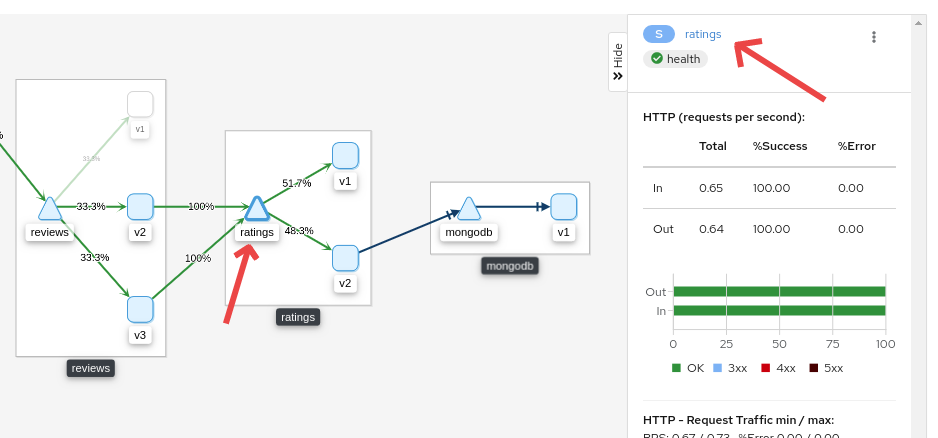
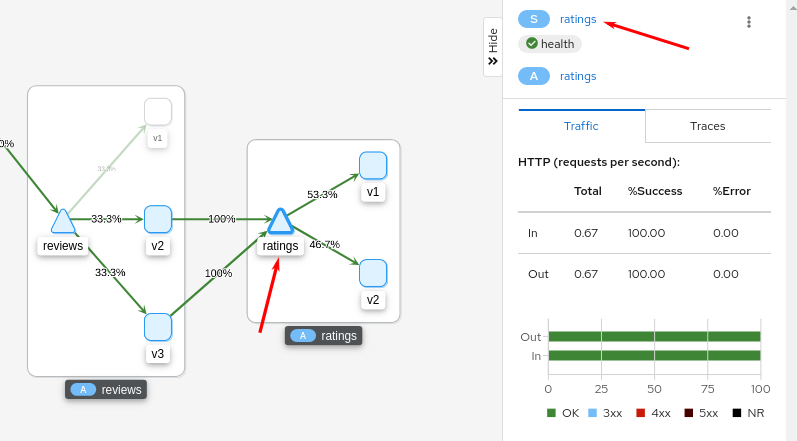
Update "Visualizing Your Mesh" istio.io page with Kiali v1.34 (#9662)
https://github.com/kiali/kiali/issues/3888

diff --git a/content/en/docs/tasks/observability/kiali/index.md b/content/en/docs/tasks/observability/kiali/index.md
@@ -13,8 +13,7 @@ This task shows you how to visualize different aspects of your Istio mesh.
 
 As part of this task, you install the [Kiali](https://www.kiali.io) addon
 and use the web-based graphical user interface to view service graphs of
-the mesh and your Istio configuration objects. Lastly, you use the Kiali
-Developer API to generate graph data in the form of consumable JSON.
+the mesh and your Istio configuration objects.
 
 {{< idea >}}
 This task does not cover all of the features provided by Kiali.
@@ -29,7 +28,7 @@ assumes the Bookinfo application is installed in the `bookinfo` namespace.
 
 Follow the [Kiali installation](/docs/ops/integrations/kiali/#installation) documentation to deploy Kiali into your cluster.
 
-## Generating a service graph
+## Generating a graph
 
 1.  To verify the service is running in your cluster, run the following command:
 
@@ -67,11 +66,14 @@ Follow the [Kiali installation](/docs/ops/integrations/kiali/#installation) docu
 
     {{< image width="75%" link="./kiali-overview.png" caption="Example Overview" >}}
 
-1.  To view a namespace graph, click on the `bookinfo` graph icon in the Bookinfo namespace card. The graph icon is in the lower left of
-    the namespace card and looks like a connected group of circles.
+1.  To view a namespace graph, Select the `Graph` option in the kebab menu of the Bookinfo overview card. The kebab menu
+    is at the top right of card and looks like 3 vertical dots. Click it to see the available options.
     The page looks similar to:
 
     {{< image width="75%" link="./kiali-graph.png" caption="Example Graph" >}}
+
+1.  The graph represents traffic flowing through the service mesh for a period of time. It is generated using
+    Istio telemetry.
 
 1.  To view a summary of metrics, select any node or edge in the graph to display
     its metric details in the summary details panel on the right.
@@ -82,7 +84,7 @@ Follow the [Kiali installation](/docs/ops/integrations/kiali/#installation) docu
 
     *   The **App** graph type aggregates all versions of an app into a single graph node.
         The following example shows a single **reviews** node representing the three versions
-        of the reviews app.
+        of the reviews app. Note that the `Show Service Nodes` Display option has been disabled.
 
         {{< image width="75%" link="./kiali-app.png" caption="Example App Graph" >}}
 
@@ -95,34 +97,33 @@ Follow the [Kiali installation](/docs/ops/integrations/kiali/#installation) docu
 
     *   The **Workload** graph type shows a node for each workload in your service mesh.
         This graph type does not require you to use the `app` and `version` labels so if you
-        opt to not use those labels on your components, this is the graph type you will use.
+        opt to not use those labels on your components, this may be your graph type of choice.
 
         {{< image width="70%" link="./kiali-workload.png" caption="Example Workload Graph" >}}
 
-    *   The **Service** graph type shows a node for each service in your mesh but excludes
-        all apps and workloads from the graph.
+    *   The **Service** graph type shows a high-level aggregation of service traffic in your mesh.
 
         {{< image width="70%" link="./kiali-service-graph.png" caption="Example Service Graph" >}}
 
 ## Examining Istio configuration
 
-1.  To view detailed information about Istio configuration, click on the
-    **Applications**, **Workloads**, and **Services** menu icons on the left menu
-    bar. The following screenshot shows information for the Bookinfo application:
+1.  The left menu options lead to list views for **Applications**, **Workloads**, **Services** and
+    **Istio Config**.
+    The following screenshot shows **Services** information for the Bookinfo namespace:
 
     {{< image width="80%" link="./kiali-services.png" caption="Example Details" >}}
 
-## Creating weighted routes
+## Traffic Shifting
 
-You can use the Kiali weighted routing wizard to define the specific percentage of
+You can use the Kiali traffic shifting wizard to define the specific percentage of
 request traffic to route to two or more workloads.
 
 1.  View the **Versioned app graph** of the `bookinfo` graph.
 
-    *   Make sure you have selected **Requests percentage** in the **Display** drop down menu
-        to see the percentage of traffic routed to each workload.
+    *   Make sure you have enabled the **Request Distribution** Edge Label **Display** option to see
+        the percentage of traffic routed to each workload.
 
-    *   Make sure you have selected the **Service Nodes** check box in the **Display** drop down menu
+    *   Make sure you have enabled the Show **Service Nodes** **Display** option
         to view the service nodes in the graph.
 
     {{< image width="80%" link="./kiali-wiz0-graph-options.png" caption="Bookinfo Graph Options" >}}
@@ -133,20 +134,22 @@ request traffic to route to two or more workloads.
 
     {{< image width="80%" link="./kiali-wiz1-graph-ratings-percent.png" caption="Graph Showing Percentage of Traffic" >}}
 
-1.  Click the **ratings** link found in the side panel to go to the service view for the `ratings` service.
+1.  Click the **ratings** link found in the side panel to go to the detail view for the `ratings` service.  This
+    could also be done by secondary-click on the `ratings` service node, and selecting `Details` from the context menu.
 
-1.  From the **Action** drop down menu, select **Create Weighted Routing** to access the weighted routing wizard.
+1.  From the **Actions** drop down menu, select **Traffic Shifting** to access the traffic shifting wizard.
 
-    {{< image width="80%" link="./kiali-wiz2-ratings-service-action-menu.png" caption="Service Action Menu" >}}
+    {{< image width="80%" link="./kiali-wiz2-ratings-service-action-menu.png" caption="Service Actions Menu" >}}
 
 1.  Drag the sliders to specify the percentage of traffic to route to each workload.
     For `ratings-v1`, set it to 10%; for `ratings-v2` set it to 90%.
 
-    {{< image width="80%" link="./kiali-wiz3-weighted-routing-wizard.png" caption="Weighted Routing Wizard" >}}
+    {{< image width="80%" link="./kiali-wiz3-traffic-shifting-wizard.png" caption="Weighted Routing Wizard" >}}
 
-1.  Click the **Create** button to create the new routing.
+1.  Click the **Create** button to apply the new traffic settings.
 
-1.  Click **Graph** in the left hand navigation bar to return to the `bookinfo` graph.
+1.  Click **Graph** in the left hand navigation bar to return to the `bookinfo` graph.  Notice that the
+    `ratings` service node is now badged with the `virtual service` icon.
 
 1.  Send requests to the `bookinfo` application. For example, to send one request per second,
     you can execute this command if you have `watch` installed on your system:
@@ -159,14 +162,14 @@ request traffic to route to two or more workloads.
     thus confirming the fact that your new traffic route is successfully routing 90% of all traffic
     requests to `ratings-v2`.
 
-    {{< image width="80%" link="./kiali-wiz4-ratings-weighted-route-90-10.png" caption="90% Ratings Traffic Routed to ratings-v2" >}}
+    {{< image width="80%" link="./kiali-wiz4-traffic-shifting-90-10.png" caption="90% Ratings Traffic Routed to ratings-v2" >}}
 
 ## Validating Istio configuration
 
 Kiali can validate your Istio resources to ensure they follow proper conventions and semantics. Any problems detected in the configuration of your Istio resources can be flagged as errors or warnings depending on the severity of the incorrect configuration. See the [Kiali validations page](https://kiali.io/documentation/latest/validations/) for the list of all validation checks Kiali performs.
 
 {{< idea >}}
-Istio 1.4 introduces `istioctl analyze` which lets you perform similar analysis in a way that can be used in a CI pipeline.
+Istio provides `istioctl analyze` which provides analysis in a way that can be used in a CI pipeline. The two approaches can be complementary.
 {{< /idea >}}
 
 Force an invalid configuration of a service port name to see how Kiali reports a validation error.
@@ -207,38 +210,22 @@ when it detects incorrect configurations.
 1.  Create Bookinfo destination rules:
 
     {{< text bash >}}
-    $ kubectl apply -f @samples/bookinfo/networking/destination-rule-all.yaml@
+    $ kubectl -n bookinfo apply -f @samples/bookinfo/networking/destination-rule-all.yaml@
     {{< /text >}}
 
 1.  Click `Istio Config` on the left hand navigation bar to navigate to the Istio configuration list.
 
 1.  Select `bookinfo` from the **Namespace** drop down menu if it is not already selected.
 
-1.  Notice the error messages and the error and warning icons that alert you to several configuration problems.
+1.  Notice the error message and the error icons that alert you to several configuration problems.
 
     {{< image width="80%" link="./kiali-istioconfig0-errormsgs.png" caption="Istio Config List Incorrect Configuration Messages" >}}
 
-1.  Hover over the error icon in the **Configuration** column of the `details` row to see additional messages.
+1.  Click the error icon in the **Configuration** column of the `details` row to navigate to the `details` destination rule view.
 
-    {{< image width="80%" link="./kiali-istioconfig1-tooltip.png" caption="Istio Config List Incorrect Configuration Tool Tips" >}}
-
-1.  Click the **details** link in the **Name** column to navigate to the `details` destination rule view.
-
-1.  Notice the messages and icons that alert you to several validation rules that failed.
-
-    {{< image width="80%" link="./kiali-istioconfig2-details-errormsgs.png" caption="Istio Configuration Details View Showing Errors" >}}
-
-1.  Click the **YAML** tab to view the YAML for this Istio destination rule resource.
-
-1.  Notice the color highlights and icons on the rows that have failed validation checks.
+1.  The **YAML** tab is preselected. Notice the color highlights and icons on the rows that have failed validation checks.
 
     {{< image width="80%" link="./kiali-istioconfig3-details-yaml1.png" caption="YAML Editor Showing Validation Errors and Warnings" >}}
-
-1.  Hover over the yellow icon to view the tool tip message that informs you of the validation check that triggered the warning.
-    For more details on the cause of the warning and how to resolve it, look up the validation warning message on the
-    [Kiali Validations page](https://kiali.io/documentation/latest/validations/).
-
-    {{< image width="80%" link="./kiali-istioconfig3-details-yaml2.png" caption="YAML Editor Showing Warning Tool Tip" >}}
 
 1.  Hover over the red icon to view the tool tip message that informs you of the validation check that triggered the error.
     For more details on the cause of the error and how to resolve it, look up the validation error message on the
@@ -249,33 +236,16 @@ when it detects incorrect configurations.
 1.  Delete the destination rules to return `bookinfo` back to its original state.
 
     {{< text bash >}}
-    $ kubectl delete -f samples/bookinfo/networking/destination-rule-all.yaml
+    $ kubectl -n bookinfo delete -f samples/bookinfo/networking/destination-rule-all.yaml
     {{< /text >}}
-
-## About the Kiali Developer API
-
-{{< warning >}}
-The Kiali Developer API is not designed or documented for public consumption, but it may be useful to some users.
-Please note the Kiali Developer API can change from version to version - there is no guarantee of backward compatibility.
-{{< /warning >}}
-
-To generate JSON files representing the graphs and other metrics, health, and
-configuration information, you can access the Kiali Developer API.
-For example, point your browser to `$KIALI_URL/api/namespaces/graph?namespaces=bookinfo&graphType=app`
-to get the JSON representation of your graph using the `app` graph type.
-
-The Kiali Developer API is built on top of Prometheus queries and depends on the
-standard Istio metric configuration.  It also makes Kubernetes API calls to
-obtain additional details about your services. For the best experience using
-Kiali, use the metadata labels `app` and `version` on your application
-components. As a template, the Bookinfo sample application follows this
-convention.
 
 ## Additional Features
 
-Kiali has more features than reviewed in this task, such as an [integration with Jaeger tracing](https://kiali.io/documentation/latest/features/#_detail_traces).
+Kiali has many more features than reviewed in this task, such as an [integration with Jaeger tracing](https://kiali.io/documentation/latest/features/#_detail_traces).
 
 For more details on these additional features, see the [Kiali documentation](https://kiali.io/documentation/latest/features/).
+
+For a deeper exploration of Kiali it is recommended to run through the [Kiali Tutorial](https://kiali.io/documentation/latest/tutorial/).
 
 ## Cleanup
 
